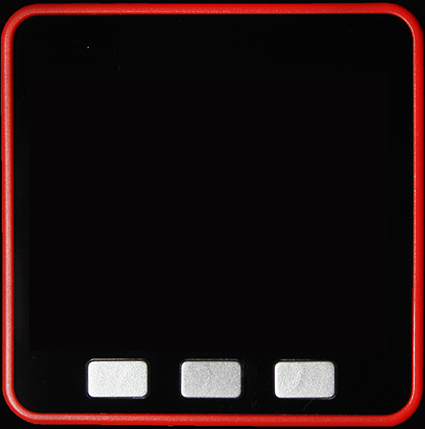
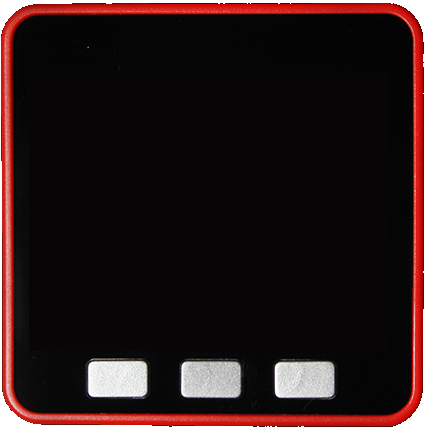
Make image backgrounds show as transparent instead of black so grey panel is shown instead of black corners.

Changed region(s): [[0.0, 0.0, 1.0, 1.0]]

diff --git a/index.php b/index.php
@@ -687,7 +687,7 @@ if (isset($_POST["submit-file"])) {
 			width: <?php echo $frame_width; ?>;
 			height: <?php echo $frame_height; ?>;
 			overflow: hidden;
-			background-color: var(--color-bg);
+			background-color: transparent;
 		}
 		#device-background {
 			position: absolute;